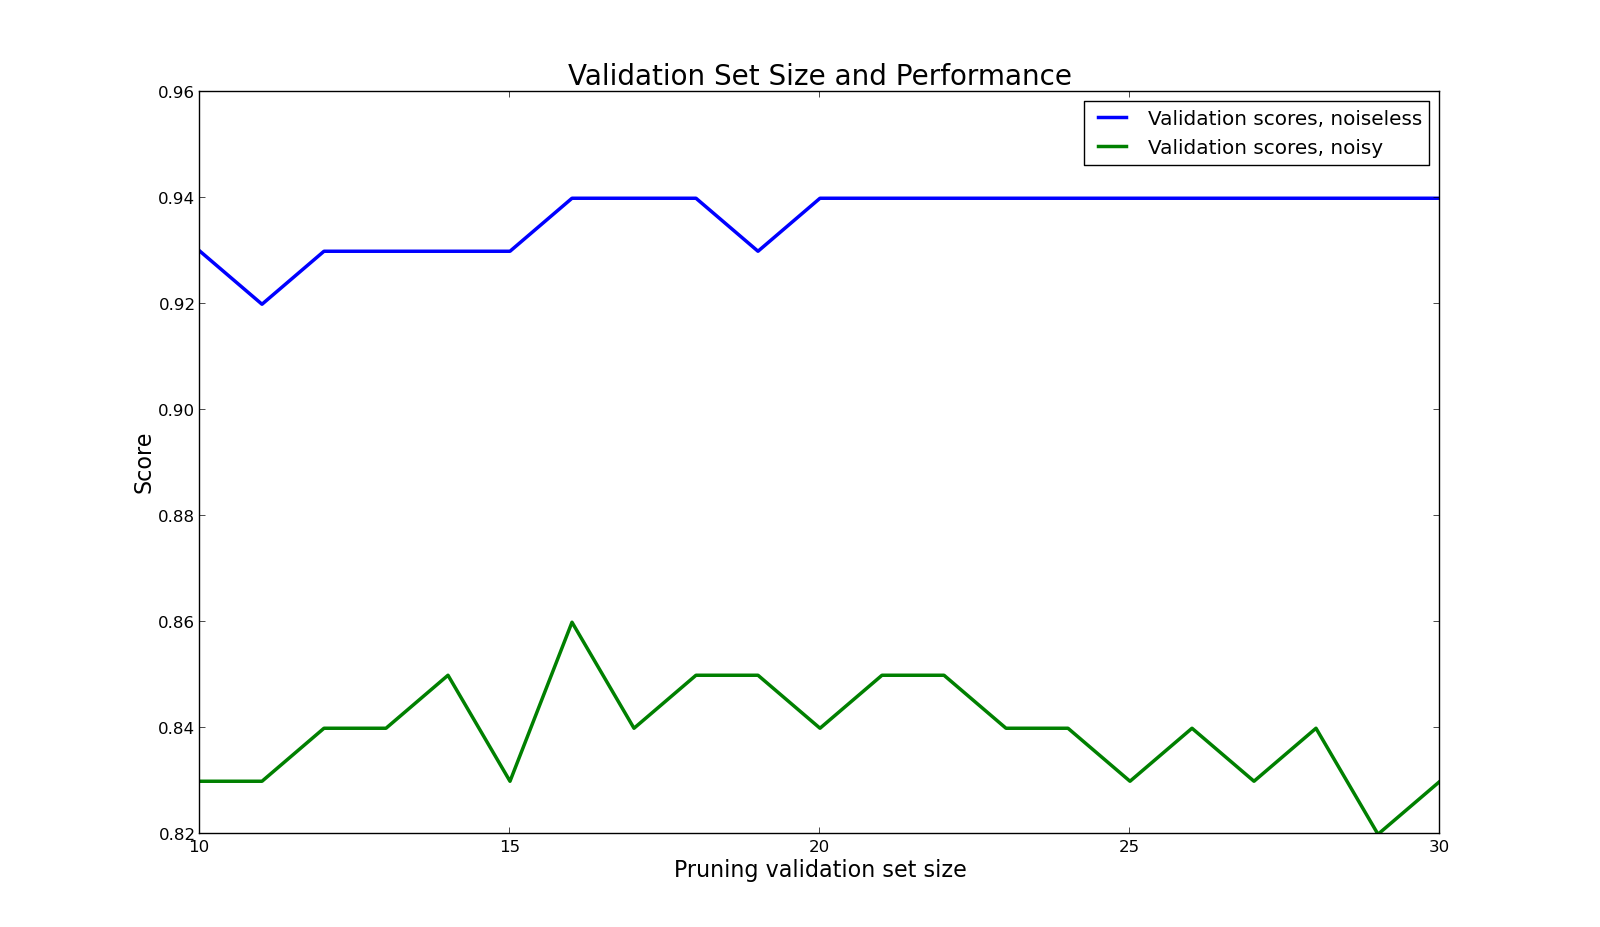
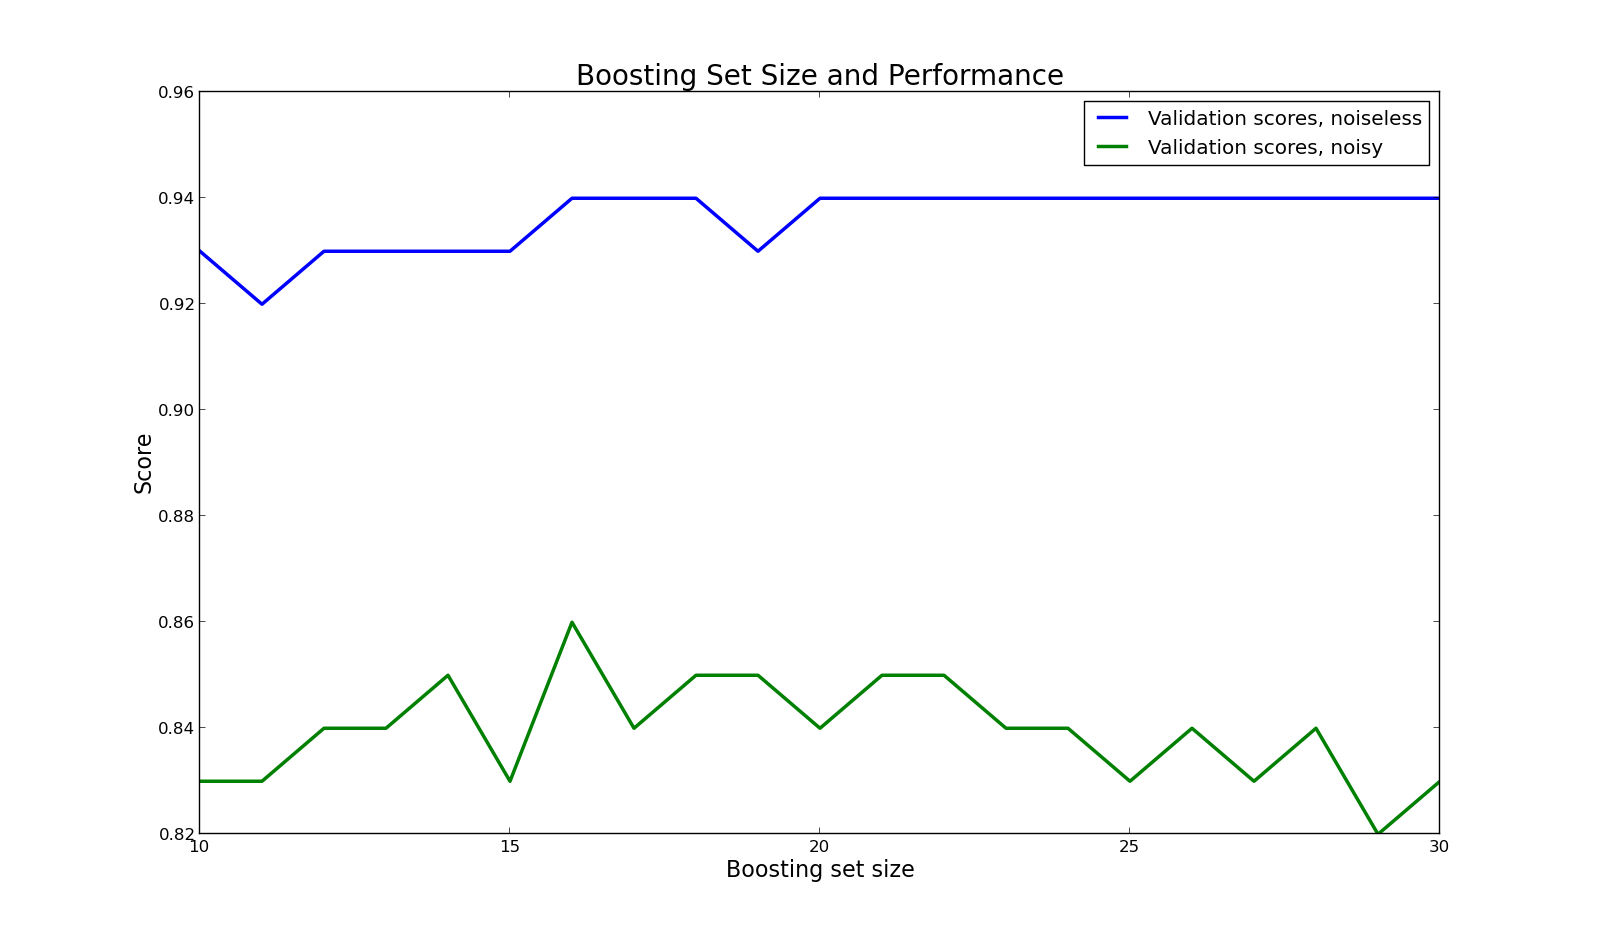
newpicture

Changed region(s): [[0.3438, 0.0604, 0.6875, 0.0906], [0.4375, 0.9061, 0.5938, 0.9666]]

diff --git a/hw1/main.py b/hw1/main.py
@@ -2,8 +2,8 @@
 # -------
 # Ashok Cutkosky and Tony Feng
 
-#import matplotlib.pyplot as plt
-#from pylab import *
+import matplotlib.pyplot as plt
+from pylab import *
 import random
 from dtree import *
 import sys
@@ -192,7 +192,7 @@ print learnscores_noiseless
 
 
 """
-xs = range(10, 15)
+xs = range(10, 31)
 valscores_noiseless = []
 learnscores_noiseless = []
 for x in xs:
@@ -217,9 +217,9 @@ ax=plt.subplot(111)
 ax.plot(xs, valscores_noiseless, 'b-', linewidth = 2.5, label = "Validation scores, noiseless")
 ax.plot(xs, valscores_noise, 'g-', linewidth = 2.5, label = "Validation scores, noisy")
 ax.legend()
-ax.set_xlabel("Pruning validation set size", fontsize = 16)
+ax.set_xlabel("Boosting set size", fontsize = 16)
 ax.set_ylabel("Score", fontsize = 16) 
-ax.set_title("Validation Set Size and Performance", fontsize = 20)
+ax.set_title("Boosting Set Size and Performance", fontsize = 20)
 plt.show()
 
 
@@ -254,11 +254,11 @@ ax.plot(xs, learnscores_noiseless, 'r-', linewidth = 2.5, label = "Learning scor
 ax.plot(xs, valscores_noise, 'g-', linewidth = 2.5, label = "Validation scores, noisy")
 ax.plot(xs, learnscores_noise, 'm-', linewidth = 2.5, label = "Learning scores, noisy")
 ax.legend()
-ax.set_xlabel("Pruning validation set size", fontsize = 16)
+ax.set_xlabel("boosting rounds", fontsize = 16)
 ax.set_ylabel("Score", fontsize = 16) 
-ax.set_title("Validation Set Size and Performance", fontsize = 20)
+ax.set_title("Boosting Rounds and Performance", fontsize = 20)
 plt.show()
     
+
+
 """
-
-
